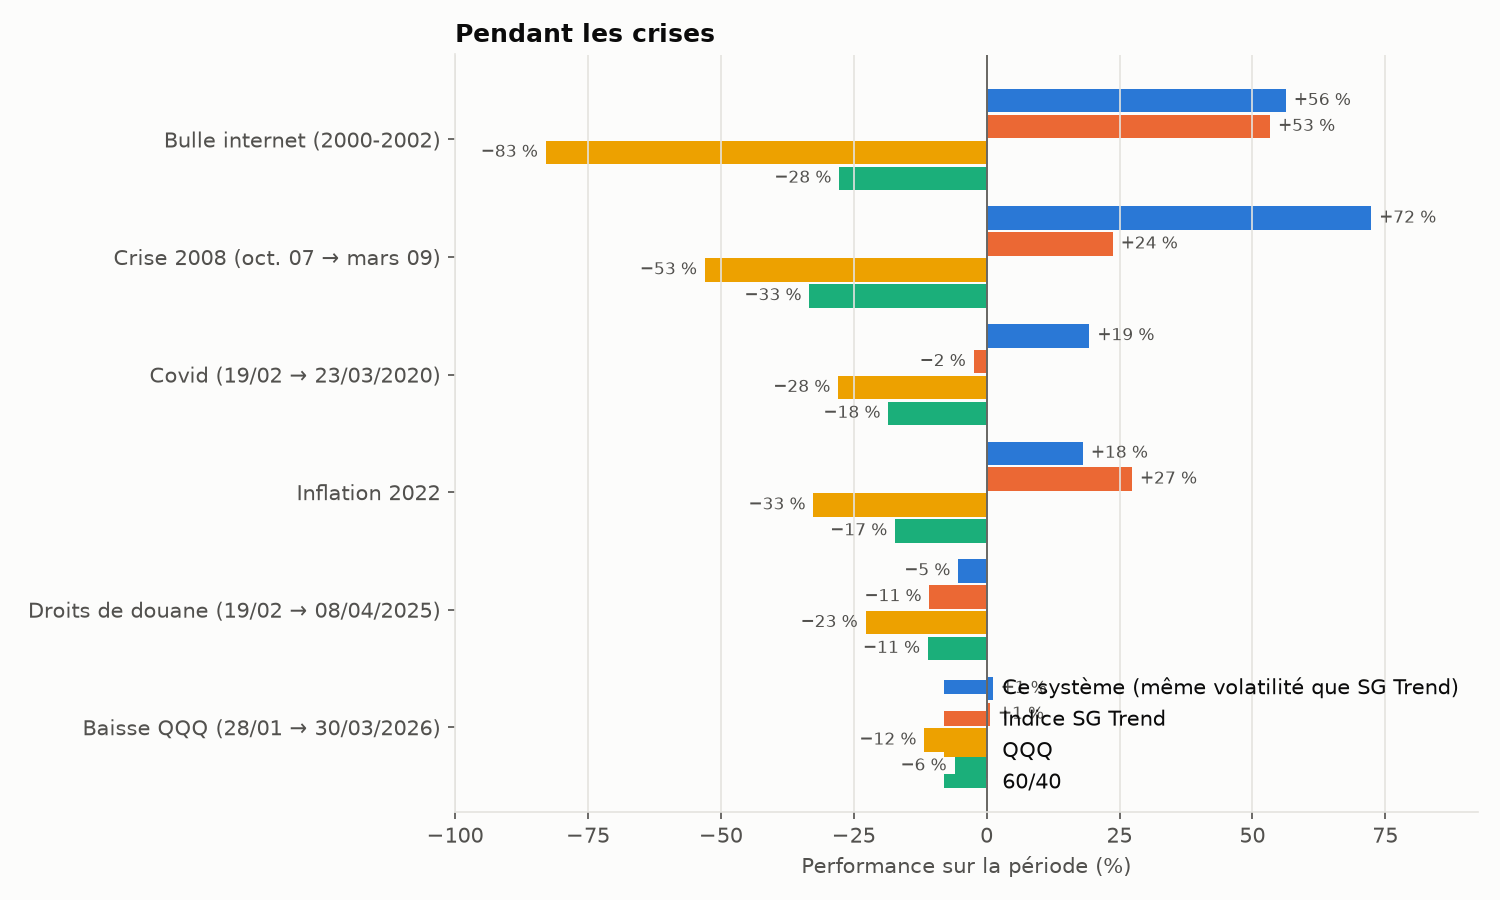
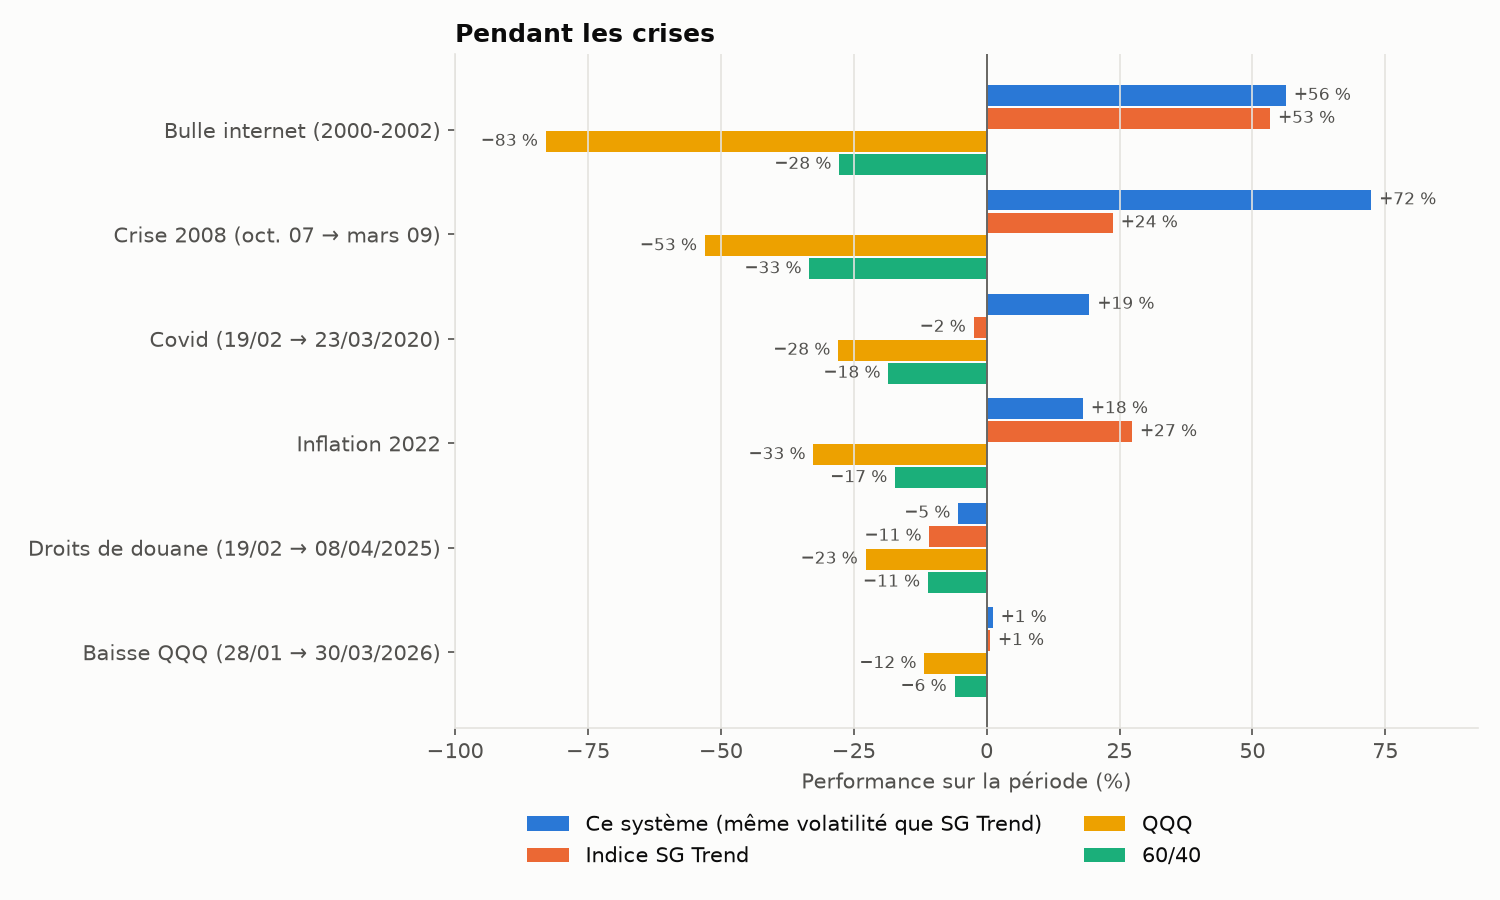
Trend : légende du graphique des crises sous le graphique
Claude-Session: https://claude.ai/code/session_01Uj28ULkDfXKqEeuebxHWZb

diff --git a/analyse-trend/graphiques.py b/analyse-trend/graphiques.py
@@ -93,7 +93,7 @@ def main():
     ax.set_xlim(min(-100, crises.min().min() * 100 - 15), crises.max().max() * 100 + 20)
     ax.set_xlabel("Performance sur la période (%)")
     ax.set_title("Pendant les crises")
-    ax.legend(loc="lower right", frameon=False)
+    ax.legend(loc="upper center", bbox_to_anchor=(0.4, -0.1), ncol=2, frameon=False)
     ax.grid(axis="y", visible=False)
     fig.tight_layout()
     fig.savefig(f"{OUT}/crises.png", dpi=150)
